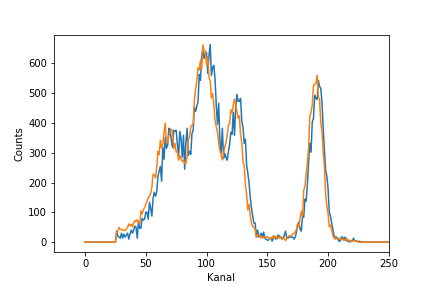
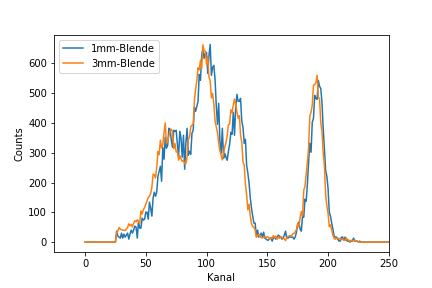
aktualisierte Alpha

Changed region(s): [[0.1204, 0.125, 0.3611, 0.2812]]

diff --git a/Versuch_Alpha_Gamma_Spektroskopie/43-TeilauswertungAlpha.tex b/Versuch_Alpha_Gamma_Spektroskopie/43-TeilauswertungAlpha.tex
@@ -3,14 +3,13 @@
 
 % Teilauswertung Alpha
 
-\section{$\alpha$-Spektroskopie}
 
-\subsection{Energiekalibrierung}
+\section{Energiekalibrierung}
 \label{subs:kali}
 
 Zunächst wurde das Spektrum von Radium-226 mit einer 1mm-Blende in einem Abstand von ca 5mm gemessen, um eine Relation zwischen Kanalnummer 
-und Energieinhalt in diesem herzustellen. Dabei wurden die Daten des Files Kali\_ra226\_b1\_603 zunächst geplottet (Abb. \ref{bild:kali}) 
-und mit den Werten aus der Tabelle in Abb. \ref{bild:TabelleRa} verglichen.
+und Energieinhalt in diesem herzustellen. Dafür wurde das sich ergebende Spektrum aus Abb. \ref{bild:kali} mit den Werten aus der 
+Tabelle in Abb. \ref{bild:TabelleRa} verglichen.
 
 \begin{figure}[h]
     \centering
@@ -31,8 +30,8 @@ und mit den Werten aus der Tabelle in Abb. \ref{bild:TabelleRa} verglichen.
 Dabei sind in der Tabelle zwei sehr kurzlebige Alphastrahler zu finden: Po-214 und Po-218. Da Po-214 die höchste Strahlenenergie hat, 
 sollte der rechte einzelne Peak diesem Strahler zuzuordnen sein. Po-218 ist der rechte Peak des Dreifachpeaks zuzuordnen. Dessen 
 linker Peak (Ra-226) ist für eine Kalibrierung zu schlecht aufgelöst und der mittlere aufgrund der Überlagerung zweier Strahler 
-(Rn-222, Po-210) ebenfalls nicht geeignet
-(\url{https://www.ld-didactic.de/software/524221en/Content/Appendix/Ra226.htm}, Stand: 14.09.21).
+(Rn-222, Po-210) ebenfalls nicht geeignet. \footnotemark
+\footnotetext{\url{https://www.ld-didactic.de/software/524221en/Content/Appendix/Ra226.htm}, Stand: 14.09.21}
 
 In den Daten wird nun der Kanal mit den maximalen Einträgen für jeden Peak gesucht. Dieser lag für Po-214 bei Kanal $193$ und 
 für Po-218 bei Kanal $126$. Mit den Energie aus der Tabelle für Po-214 ($7,69$ MeV) und Po-218 ($6,00$ MeV) erhält man folgendes 
@@ -58,7 +57,11 @@ Womit sich die Kalibrierungsgerade ergibt zu:
 Eine Problematik der Energiekalibrierung ist die starke Anhängigkeit der gemessenen Energien von Art und Dicke des Absorbers, wie in 
 \ref{subs:abs} näher beleuchtet. Ideal wäre demnach eine Messung unter Auschluss jedweden Absorbers, also ein Vakuum.\\
 
-\subsection{Geiger-Nutall-Regel}
+
+
+
+
+\section{Geiger-Nutall-Regel}
 
 Die Geiger-Nutall-Regel ist eine empirische Abschätzung zur Halbwertszeit:\\
 \begin{equation}
@@ -84,7 +87,11 @@ $3,82$d sollte sich nach \ref{bild:TabelleRa} eine Energie von $5,49$ MeV ergebe
 Dies entspricht zwar nicht ganz dem gefordertem Wert, allerdings liegt die Abweichung nur bei ca. 1\%. Deshalb kann die 
 Geiger-Nutall-Regel durchaus als bestätigt angesehen werden.
 
-\subsection{Blendenverkleinerung}
+
+
+
+
+\section{Blendenverkleinerung}
 
 Nun wurde eine Messung identisch zu der Kalibrationsmessung durchgeführt, mit dem einzigen Unterschied, dass anstatt der 1mm-Blende 
 jetzt die 3mm-Blende verwendet wurde. Trägt man die detektierten Teilchen in den Kanäle gegen die selbigen auf, so ergibt sich der 
@@ -111,10 +118,15 @@ mit der kleineren Blende entsprechend hoch und legt diese über die Messung mit 
 
 Dabei ist erkennbar, dass die Spektren beinahe identisch sind. Der Graph der größeren Blende wirkt jedoch glatter. Dies könnte 
 daran liegen, dass bei kleineren Zählraten sich deren Fehler von $\sqrt{n}$ (gaußverteilt) deutlich stärker auswirkt und die Schwankungen der 
-Messwerte dadurch größer ist.
+Messwerte dadurch größer ist. Zudem ist eine kleine Verbreiterung in Richtung niedrigerer Energien erkennbar. Dies könnte darin begründet 
+liegen, dass nun auch die in einem größeren Raumwinkel emittierten Alphateilchen duch die größere Blende auf den Detektor treffen können. 
+Diese haben allerdings eine (etwas) längere Wegstrecke in Luft zurückgelegt und so durch Stöße mehr Energie abgegeben.
 
 
-\subsection{Absorption von $\alpha$-Strahlen}
+
+
+
+\section{Absorption von $\alpha$-Strahlen}
 \label{subs:abs}
 
 Zur Bestimmung der Absorption von Alphastrahen wurde das Spektrum der Radiumquelle zunächst in verschiedenen Abständen zum Detektor 
@@ -164,16 +176,34 @@ zur Kalibration wurde mit minimalem Abstand und kleinster Blende durchgeführt, 
 und Messgerät war. Deshalb ist davon auszugehen, dass die Kalibration im Wesentlichen richtig ist.\\
 
 Trägt man nun die Quadrate der Energien (des rechten Peaks im Spektrum) gegen den Abstand (ergo Absorberdicke von Luft) bzw 
-gegen die Schichtdicke der Mylarfolien (Foliendicke: $4,3 \mu$ m) auf, so ergibt sich jeweils näherugsweise eine Gerade. Dabei wurden 
+gegen die Schichtdicke der Mylarfolien (Foliendicke: $4,3 \mu$ m) auf, so ergibt sich jeweils näherugsweise eine Gerade (Abb. \ref{bild:luftger} 
+und \ref{bild:mylarger}). Dabei war vor allem der Abstand aufgrund des Aufbaus nicht leicht zu messen und soll mit einer Unsicherheit 
+von $\pm 2$mm berücksichtigt werden.\\
+
+\begin{figure}[h]
+    \centering
+    \includegraphics[scale=0.65]{Bilder/luftger.png}
+    \caption{Quadrate der Energien gegen Abstand des Detektors zur Probe aufgetragen; dazu berechnete Regressionsgerade}
+    \label{bild:luftger}
+\end{figure}
+
+\begin{figure}[h]
+    \centering
+    \includegraphics[scale=0.65]{Bilder/mylarger.png}
+    \caption{Quadrate der Energien gegen Sichichtdicke des Mylars aufgetragen; dazu berechnete Regressionsgerade}
+    \label{bild:mylarger}
+\end{figure}
+
+Dabei wurden 
 bei der Mylarfolie die Messung mit den neun Lagen nicht berücksichtigt, da die Datenlage mit einer maximalen Kanalbelegung von vier zu 
 gering ist. Ohnehin ist erkennbar, dass für größere Schichtzahlen die Abweichungen von der Gerade zunehmend größer werden. Mittels 
 linearer Regression werden die Steigungen $m_{Luft}$ und $m_{Mylar}$ berechnet. Die Abschwächungskoeffizienten aus der 
 Bethe-Bloch-Formel ergeben sich nach: \\
 
-\begin{equation}
-    k = 0,5 \cdot m \\
-    \to k_{Luft} = 1,31362546 \cdot 10^{-23} \, \frac{J^2}{m}, \qquad k_{Mylar} = 1,48780223 \cdot 10^{-20} \, \frac{J^2}{m}
-\end{equation}
+\begin{align}
+    k &= 0,5 \cdot m \nonumber \\
+    \to k_{Luft} &= 1,31362546 \cdot 10^{-23} \, \frac{J^2}{m}, \qquad k_{Mylar} = 1,48780223 \cdot 10^{-20} \, \frac{J^2}{m} \\
+\end{align}
 (\cite{Jaekel1997}, S.71f) \\
 
 Außerdem gilt: \\
@@ -196,9 +226,19 @@ Das Verhältnis der gemessenen Abschwächungskoeffizienten ergibt sich zu:\\
     \frac{k_{Luft}}{k_{Mylar}} = \frac{1,31362546 \cdot 10^{-23}}{1,48780223 \cdot 10^{-20}} = 0,0008829
 \end{equation}
 
-Messung und Theorie stimmen zwar in der Größenordnung überein, haben allerdings einen Fehler von ca 30\%. 
+Messung und Theorie stimmen zwar in der Größenordnung überein, haben allerdings einen Fehler von ca 30\%. Dabei gehen wir davon aus, 
+dass der Hauptbeitrag zu diesem von der enormen Unsicherheit in der Abstandsmessung ausgeht. Durch den geringen Abstand der Messpunkte 
+überlappen sich die Fehlerbalken beinahe. Dadurch ergibt sich ein großer Spielraum für die Lage und damit auch die Steigung der 
+Regressionsgerade. In dieser Hinsicht sind unseres Erachtens der Fehler von 30\% nicht wünschenswert, aber unter diesen Voraussetzungen 
+akzeptabel. Der Fehler der Mylarfolie (vom Betreuer angegeben) und die Nicht-Berücksichtigung des Absorbers Luft bei der Mylarmessung 
+sollten um Größenordnungen kleiner liegen und deshalb kaum eine Rolle spielen.
 
-\subsection{Vermessung eines radioaktiven Zeigers}
+
+
+
+
+
+\section{Vermessung eines radioaktiven Zeigers}
 
 Zuletzt wurde noch das Alphaspektrum eines alten Uhrzeigers mit radioaktiver Farbe aufgenommen. Dabei wurde aufgrund der sehr schwachen 
 Strahlung die größtmögliche Blende (5mm) und ein kleinstmöglicher Abstand gewählt. Zudem betrug die Messdauer ca. einen Tag. Das 
@@ -214,7 +254,7 @@ Spektrum findet sich in Abb. \ref{bild:uhr} wieder. \\
 In dem Spektrum sind die Peaks sehr scharf zu sehen. Sie liegen laut Messtabellen bei: \\
 
 \begin{align*}
-    E_0 &= 6,06 \, MeV \to Bi-212 \, (T_{1/2} = 60,5m, E = 6,05 MeV),\, Po-218 \, (T_{1/2} = 3,05m, E = 6,0 MeV) \\
+    E_0 &= 6,05 \, MeV \to Bi-212 \, (T_{1/2} = 60,5m, E = 6,05 MeV),\, Po-218 \, (T_{1/2} = 3,05m, E = 6,0 MeV) \\
     E_1 &= 6,55 \, MeV \to Rn-219 \, (T_{1/2} = 3,42s, E = 6,82 MeV), Bi-211 \, (T_{1/2} = 216s, E = 6,6 MeV)\\
     E_2 &= 6,68 \, MeV \to vgl. \, E_1 \\
     E_3 &= 7,16 \, MeV \to Po-215 \, (T_{1/2} = 1,8 \cdot 10^{-3}s, E = 7,38 MeV) \\
